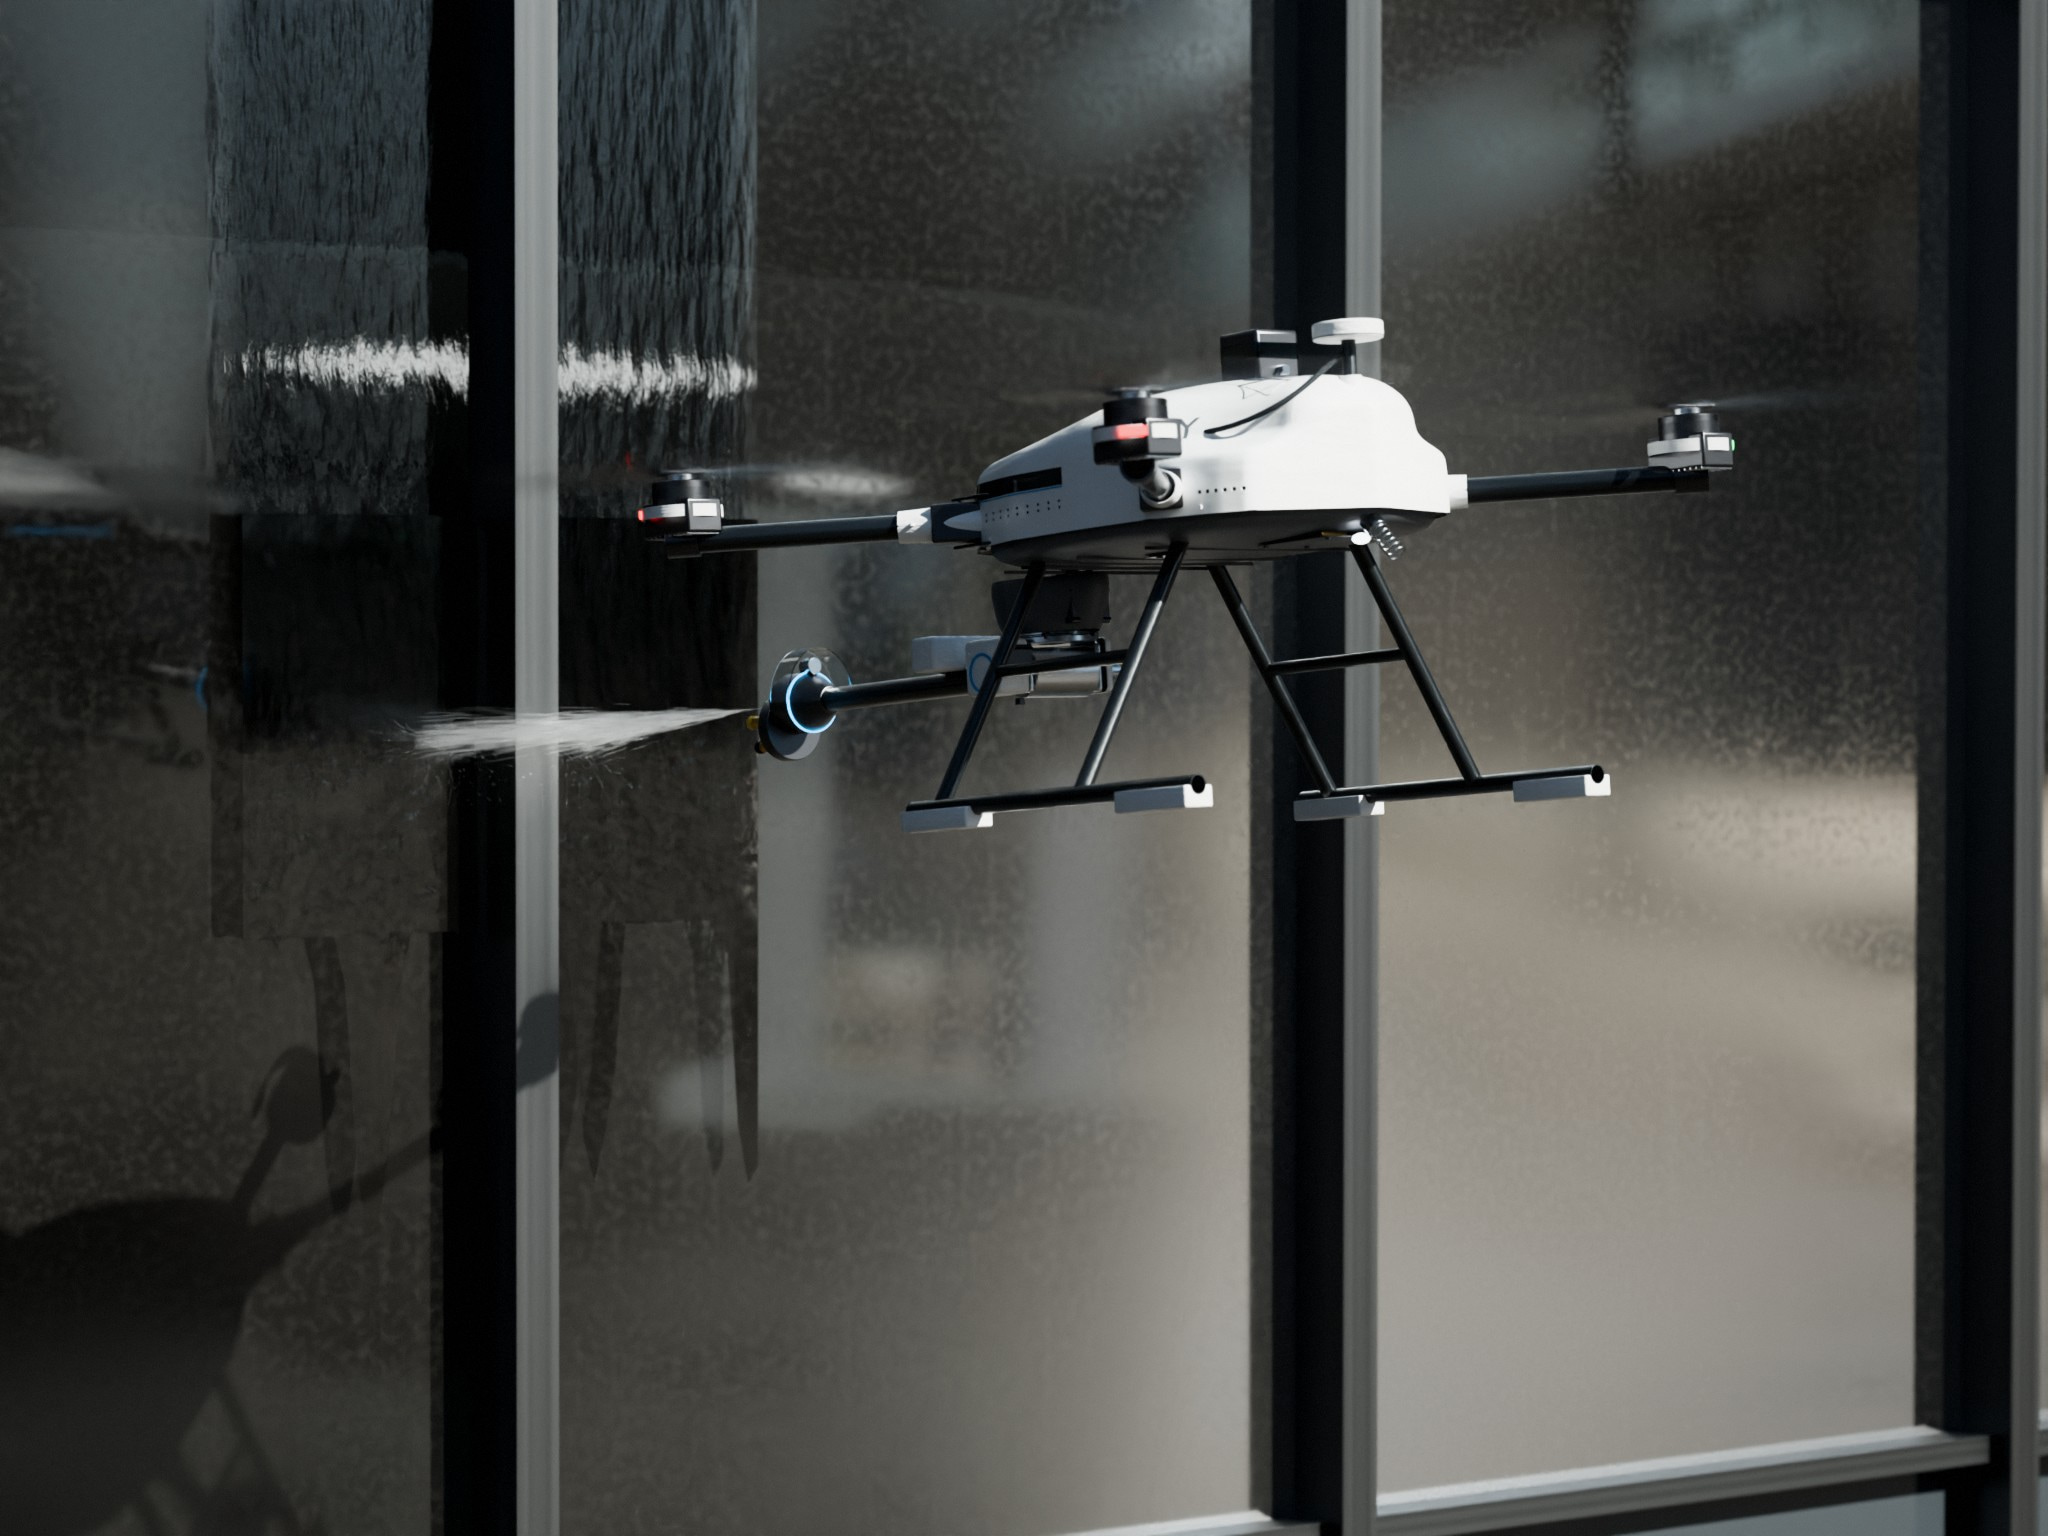
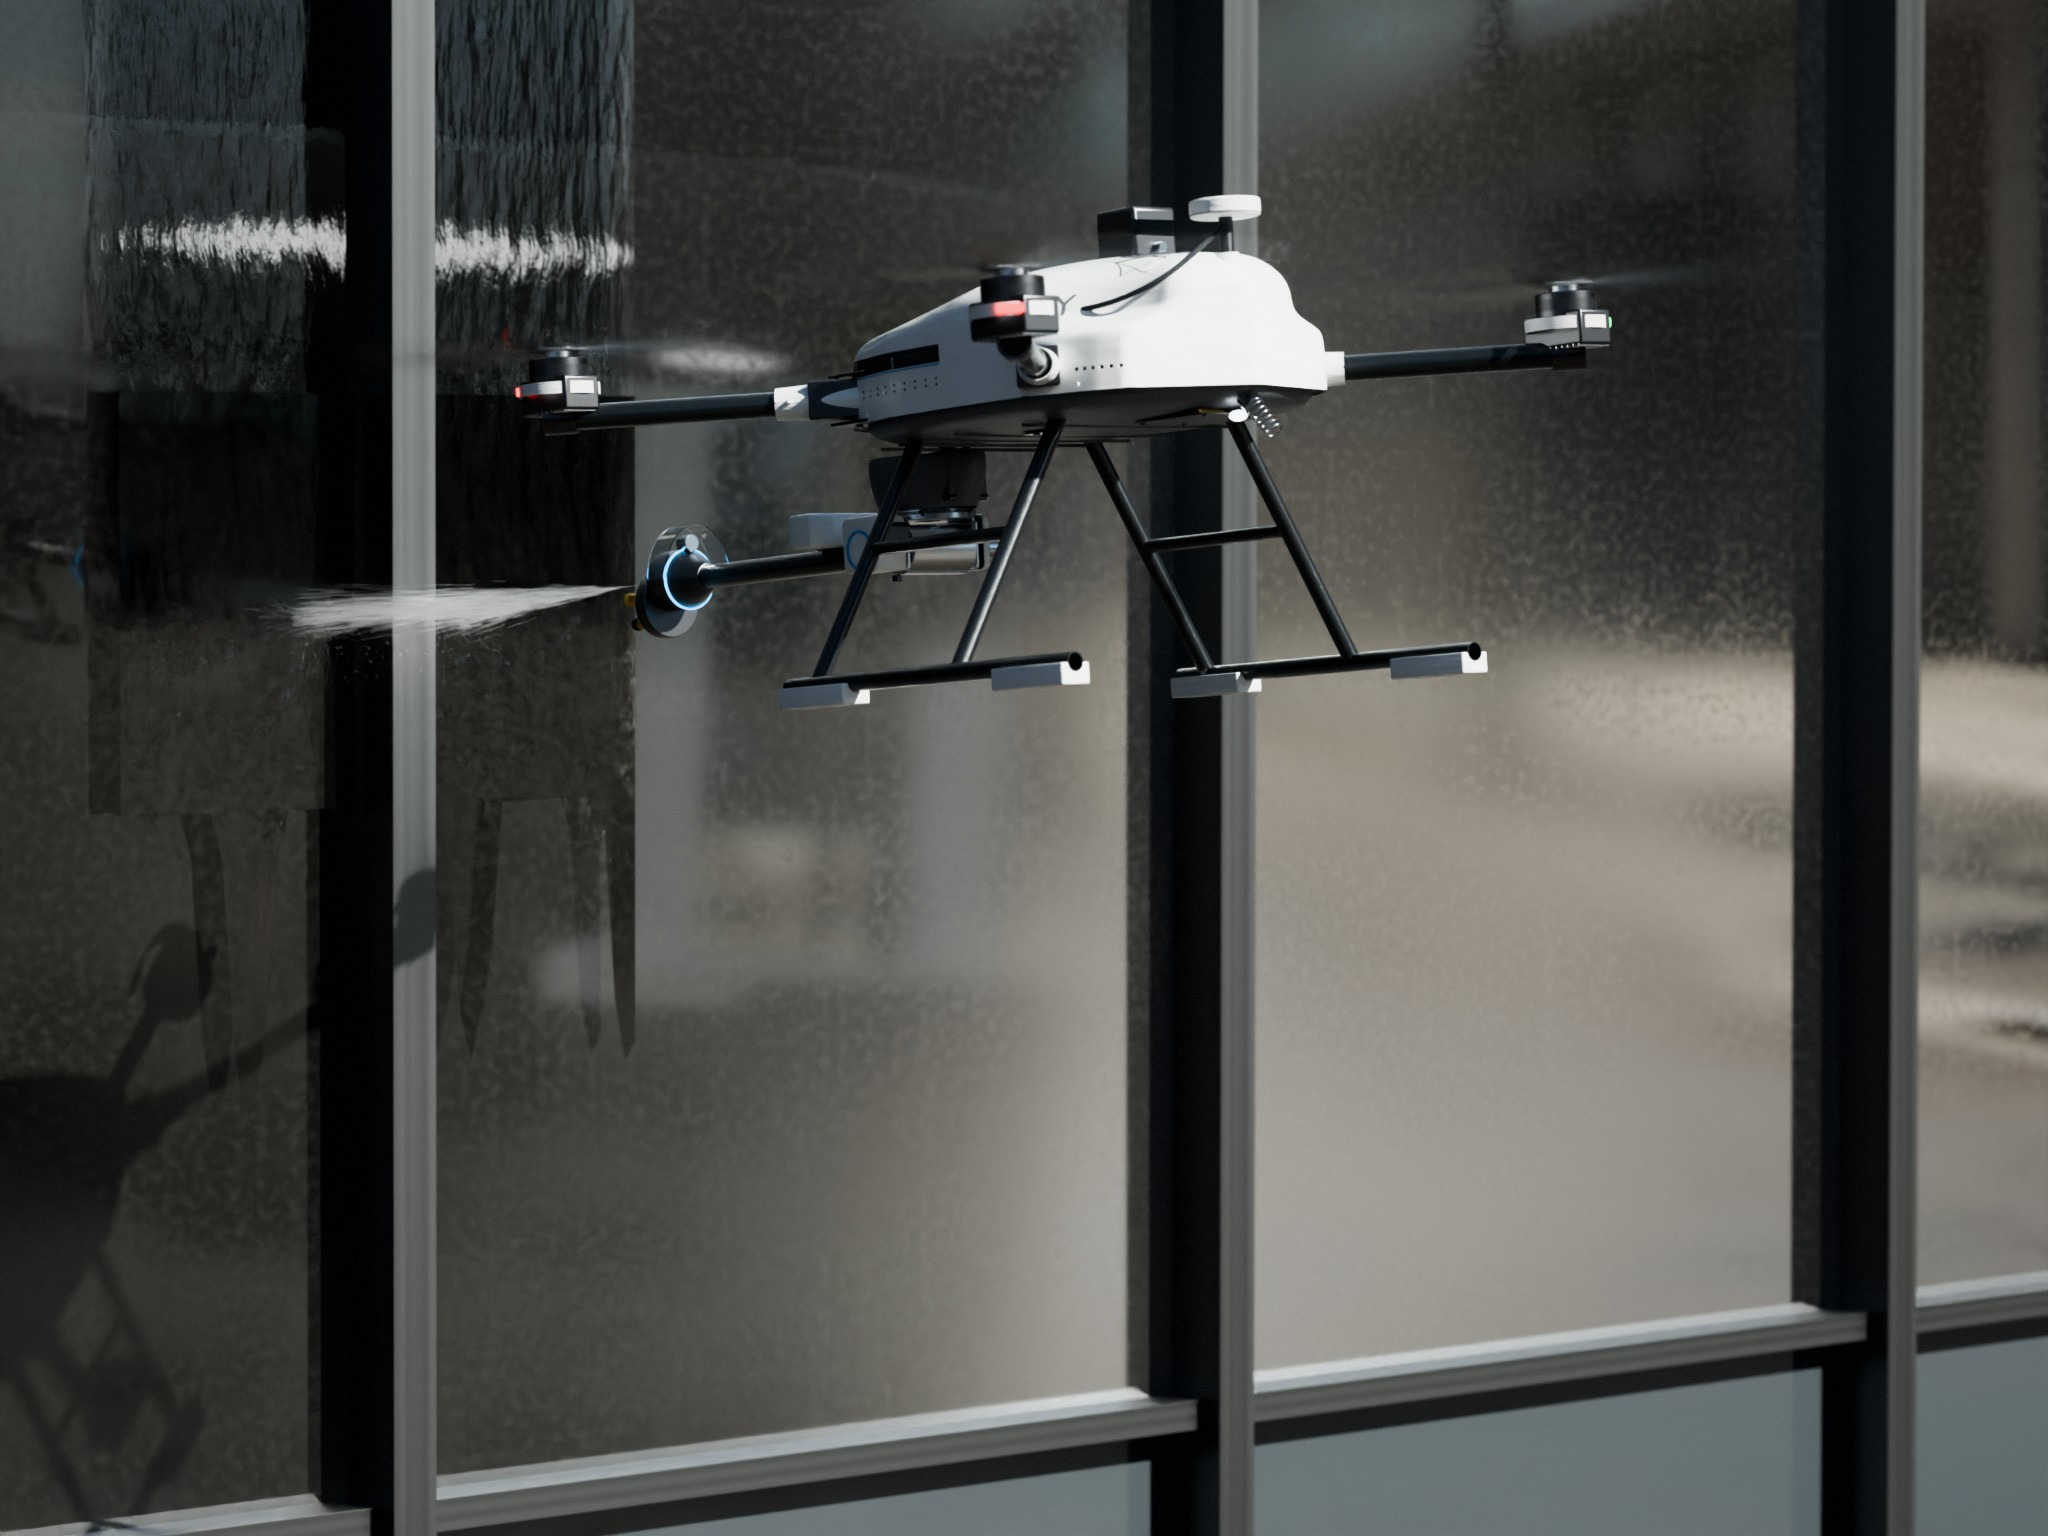
Stills: the drone master framed higher and a little left, clear of the platform row's Demo card; the company fan crop follows
Claude-Session: https://claude.ai/code/session_014cPnYtJdmNi3G1jESrTKrF

diff --git a/src/content/company.ts b/src/content/company.ts
@@ -35,7 +35,7 @@ export const companyPage = {
     pictures: [
       { id: "s6-automation", alt: "The Lienry dock open beside a building, the drone rising above it on its tether", position: "50% 40%" },
       { id: "co1-company", alt: "The Lienry drone washing the glass of an office tower, seen from the street", position: "52% 50%" },
-      { id: "m1-drone-master", alt: "The Lienry drone washing a glass wall", position: "48% 50%" },
+      { id: "m1-drone-master", alt: "The Lienry drone washing a glass wall", position: "55% 50%" },
     ],
     values: {
       lead: "How we work.",
